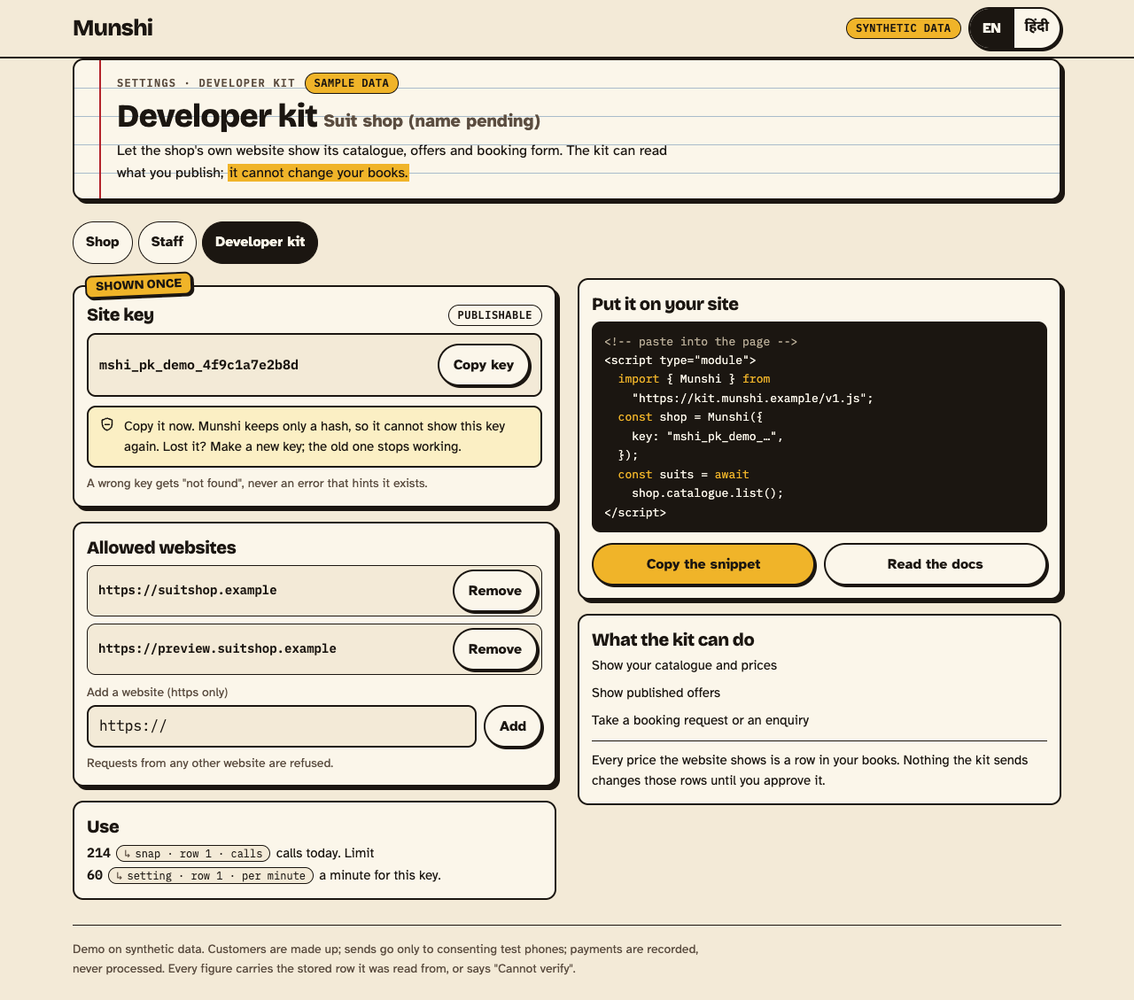
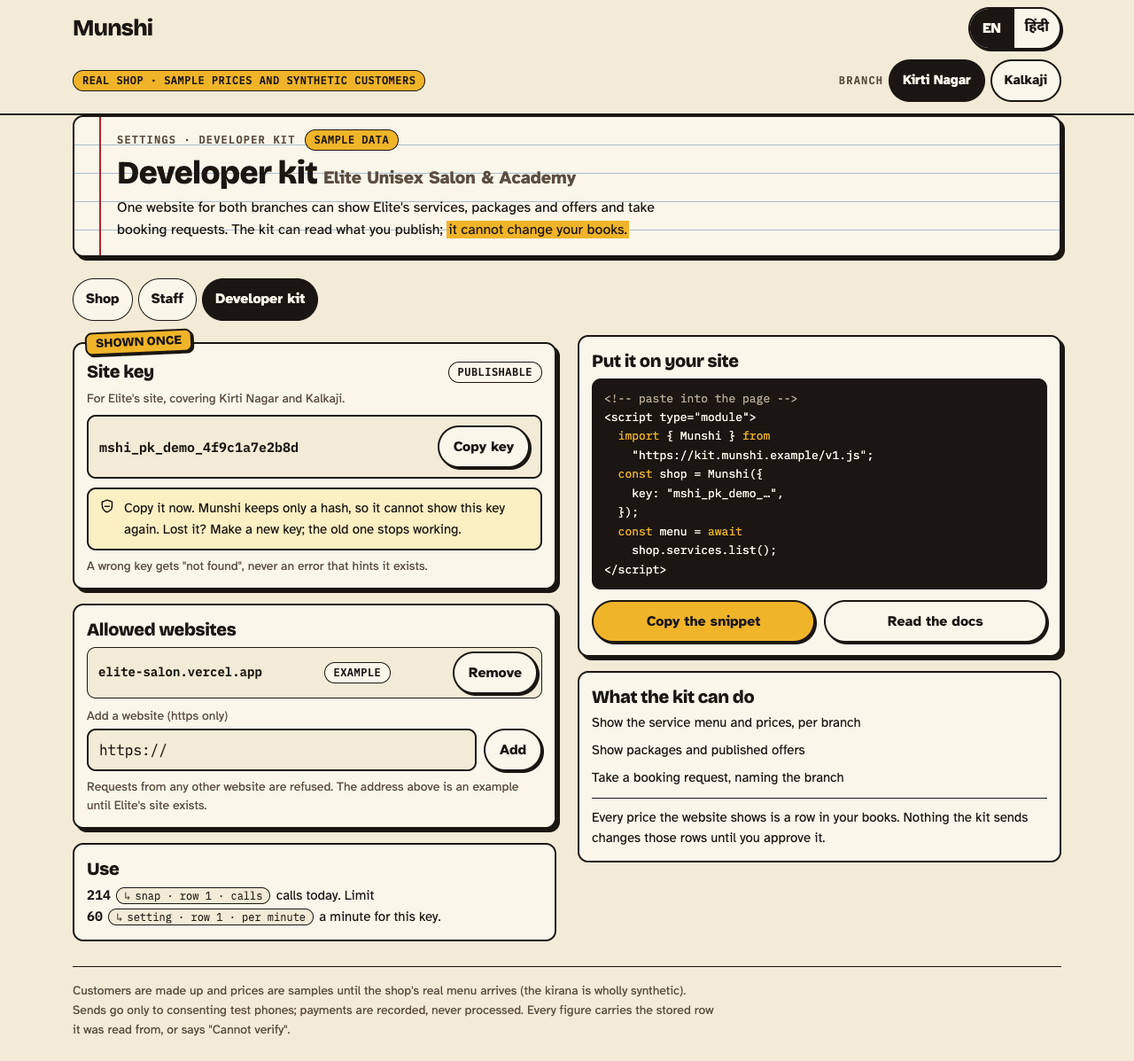
MS-16b revision 1: the app screens use the real shops — Elite Unisex Salon & Academy by name with a Kirti Nagar | Kalkaji branch switcher, bookings and packages by branch, the spreadsheet as Elite's service menu (the error shows the typed 3500.5), Elite's one site in the developer kit; real shops ca

Changed region(s): [[0.0625, 0.0, 0.9688, 0.899], [0.0625, 0.93, 0.625, 0.992]]

diff --git a/design/merchants/app/spreadsheet.html b/design/merchants/app/spreadsheet.html
@@ -12,61 +12,62 @@
 <body>
 <header class="bar"><div class="wrap">
   <span class="word">Munshi</span>
-  <div class="bar-r"><span class="synth">Synthetic data</span><div class="lang" aria-label="Language"><span class="on">EN</span><span class="hi">हिंदी</span></div></div>
-</div></header>
+  <div class="bar-r"><div class="lang" aria-label="Language"><span class="on">EN</span><span class="hi">हिंदी</span></div></div>
+</div>
+  <div class="wrap bar-sub"><span class="synth">Real shop · sample prices and synthetic customers</span><div class="branch" aria-label="Branch"><span class="kicker">Branch</span><span class="seg on">Kirti Nagar</span><span class="seg">Kalkaji</span></div></div></header>
 <div class="wrap"><main>
   <div class="shop">
-    <div class="shop-k"><span class="kicker">Catalogue · prices and stock</span><span class="tag">Real shop and catalogue · synthetic customers</span></div>
-    <h1>Catalogue grid <small>Suit shop (name pending)</small></h1>
-    <p>Edit like a spreadsheet. Your edits wait here and become <mark>one draft you review and approve</mark>; nothing is written until then.</p>
+    <div class="shop-k"><span class="kicker">Service menu · prices, minutes, branches</span></div>
+    <h1>Service menu <small>Elite Unisex Salon &amp; Academy</small></h1>
+    <p>Edit like a spreadsheet. Your edits wait here and become <mark>one draft you review and approve</mark>; nothing is written until then. Prices are samples until Elite's menu arrives.</p>
   </div>
-<div class="cols">
+<div class="cols cols-wide">
  <div class="col">
   <div class="toolbar"><button class="press press-sm" type="button">Paste rows</button><button class="press press-sm" type="button">Import file</button><button class="press press-sm" type="button">Export</button>
    <span class="note">Yellow: your edit · Tinted: pasted · Dashed red: error</span></div>
-  <section class="card grid-card only-wide" aria-label="Catalogue grid">
-   <div class="grid-head"><h2>Catalogue</h2><span class="tag">Read from the books</span></div>
+  <section class="card grid-card only-wide" aria-label="Service menu grid">
+   <div class="grid-head"><h2>Services</h2><span class="tag">Sample prices</span></div>
    <div class="tbl-wrap" style="border:0;border-radius:0"><table class="grid">
-    <thead><tr><th>Item</th><th>Fabric</th><th class="n">Price ₹</th><th class="n">Stock</th><th>Source</th></tr></thead>
+    <thead><tr><th>Service</th><th>Category</th><th class="n">Min</th><th class="n">Price ₹</th><th>Branches</th><th>Source</th></tr></thead>
     <tbody>
-     <tr><td>Cotton unstitched suit</td><td>Mulmul</td><td class="n">1,450</td><td class="n">12</td><td><span class="ref">items · row 1</span></td></tr>
-     <tr><td>Cotton semi-stitched suit</td><td>Cotton</td><td class="n">1,950</td><td class="n">9</td><td><span class="ref">items · row 2</span></td></tr>
-     <tr><td>Chanderi unstitched suit</td><td>Chanderi</td><td class="n">2,800</td><td class="n edited"><span class="was">6</span>10</td><td><span class="ref">items · row 3</span></td></tr>
-     <tr><td>Georgette stitched suit</td><td>Georgette</td><td class="n edited"><span class="was">3,600</span>3,800</td><td class="n">4</td><td><span class="ref">items · row 4</span></td></tr>
-     <tr><td>Silk dupatta</td><td>Silk</td><td class="n edited"><span class="was">900</span>950</td><td class="n">15</td><td><span class="ref">items · row 5</span></td></tr>
-     <tr><td>Phulkari dupatta</td><td>Cotton</td><td class="n err">1,150<span class="errmsg">Whole rupees only, left out</span></td><td class="n">8</td><td><span class="ref">items · row 6</span></td></tr>
-     <tr><td>Linen unstitched suit</td><td>Linen</td><td class="n">1,700</td><td class="n">7</td><td><span class="ref">items · row 7</span></td></tr>
-     <tr class="pasted"><td>Banarasi dupatta <span class="mine">Pasted</span></td><td>Silk</td><td class="n">2,400</td><td class="n">5</td><td><span class="note">new row</span></td></tr>
+     <tr><td>Haircut</td><td>Hair</td><td class="n">30</td><td class="n">600</td><td>Both</td><td><span class="ref">services · row 1</span></td></tr>
+     <tr><td>Hair spa</td><td>Hair</td><td class="n">60</td><td class="n edited"><span class="was">1,200</span>1,300</td><td>Both</td><td><span class="ref">services · row 2</span></td></tr>
+     <tr><td>Global colour</td><td>Colour</td><td class="n">120</td><td class="n err"><span class="raw">3500.5</span><span class="errmsg">Whole rupees only. You typed 3500.5; left out</span></td><td>Kirti Nagar</td><td><span class="ref">services · row 3</span></td></tr>
+     <tr><td>Facial</td><td>Skin</td><td class="n edited"><span class="was">45</span>60</td><td class="n">1,400</td><td>Both</td><td><span class="ref">services · row 4</span></td></tr>
+     <tr><td>Eyebrow threading</td><td>Grooming</td><td class="n">15</td><td class="n">80</td><td>Both</td><td><span class="ref">services · row 5</span></td></tr>
+     <tr><td>Manicure</td><td>Nails</td><td class="n">40</td><td class="n">700</td><td class="edited"><span class="was">Kalkaji</span>Both</td><td><span class="ref">services · row 6</span></td></tr>
+     <tr><td>Bridal makeup</td><td>Bridal</td><td class="n">180</td><td class="n">12,000</td><td>Both</td><td><span class="ref">services · row 7</span></td></tr>
+     <tr class="pasted"><td>Head massage <span class="mine">Pasted</span></td><td>Hair</td><td class="n">20</td><td class="n">300</td><td>Both</td><td><span class="note">new row</span></td></tr>
     </tbody></table></div>
    <div class="reviewbar"><span><b>3 edits and 1 pasted row</b> <span class="note">1 cell with an error is left out</span></span><button class="press press-gold" type="button">Review 4 changes</button></div>
   </section>
   <div class="only-narrow stack">
    <div class="icard"><label for="paste" class="t" style="display:block;margin-bottom:6px">Paste rows <span class="note">from a spreadsheet</span></label>
-    <textarea id="paste" class="paste" readonly>Banarasi dupatta	Silk	2400	5</textarea>
+    <textarea id="paste" class="paste" readonly>Head massage	Hair	20	300	Both</textarea>
     <div class="decide"><button class="press press-sm" type="button" style="flex:1">Read pasted rows</button></div></div>
-   <div class="icard edited"><div class="t"><span>Chanderi unstitched suit</span><span class="ref">items · row 3</span></div><dl><dt>Stock</dt><dd><span class="was" style="display:inline">6</span> <b class="amt">10</b> <span class="mine">Your edit</span></dd></dl></div>
-   <div class="icard edited"><div class="t"><span>Georgette stitched suit</span><span class="ref">items · row 4</span></div><dl><dt>Price</dt><dd><span class="was" style="display:inline">₹3,600</span> <b class="amt">₹3,800</b> <span class="mine">Your edit</span></dd></dl></div>
-   <div class="icard edited"><div class="t"><span>Silk dupatta</span><span class="ref">items · row 5</span></div><dl><dt>Price</dt><dd><span class="was" style="display:inline">₹900</span> <b class="amt">₹950</b> <span class="mine">Your edit</span></dd></dl></div>
-   <div class="icard err"><div class="t"><span>Phulkari dupatta</span><span class="ref">items · row 6</span></div><dl><dt>Price</dt><dd><b class="amt">₹1,150</b><span class="errmsg">Whole rupees only. Left out until fixed.</span></dd></dl></div>
-   <div class="icard pasted"><div class="t"><span>Banarasi dupatta</span><span class="mine">Pasted</span></div><dl><dt>Fabric</dt><dd>Silk</dd><dt>Price</dt><dd><b class="amt">₹2,400</b></dd><dt>Stock</dt><dd><b class="amt">5</b></dd></dl></div>
+   <div class="icard edited"><div class="t"><span>Hair spa</span><span class="ref">services · row 2</span></div><dl><dt>Price</dt><dd><span class="was" style="display:inline">₹1,200</span> <b class="amt">₹1,300</b> <span class="mine">Your edit</span></dd></dl></div>
+   <div class="icard edited"><div class="t"><span>Facial</span><span class="ref">services · row 4</span></div><dl><dt>Minutes</dt><dd><span class="was" style="display:inline">45</span> <b class="amt">60</b> <span class="mine">Your edit</span></dd></dl></div>
+   <div class="icard edited"><div class="t"><span>Manicure</span><span class="ref">services · row 6</span></div><dl><dt>Branches</dt><dd><span class="was" style="display:inline">Kalkaji</span> <b>Both</b> <span class="mine">Your edit</span></dd></dl></div>
+   <div class="icard err"><div class="t"><span>Global colour</span><span class="ref">services · row 3</span></div><dl><dt>Price</dt><dd><b class="amt raw">3500.5</b><span class="errmsg">Whole rupees only. You typed 3500.5. Left out until fixed.</span></dd></dl></div>
+   <div class="icard pasted"><div class="t"><span>Head massage</span><span class="mine">Pasted</span></div><dl><dt>Category</dt><dd>Hair</dd><dt>Minutes</dt><dd><b class="amt">20</b></dd><dt>Price</dt><dd><b class="amt">₹300</b></dd><dt>Branches</dt><dd>Both</dd></dl></div>
    <div class="reviewbar" style="border-radius:var(--radius);border:var(--stroke) solid var(--ink)"><span><b>4 changes</b><br><span class="note">1 error left out</span></span><button class="press press-gold" type="button">Review 4 changes</button></div>
   </div>
  </div>
  <div class="col">
   <section class="card pending" aria-labelledby="g1"><span class="flag">Review</span>
    <div class="top"><h2 id="g1">Review 4 changes</h2><span class="tag-ink">One draft</span></div>
-   <div class="chg"><p class="l">Chanderi unstitched suit · Stock</p><p class="d"><span class="amt">6</span> <span class="ref">items · row 3 · stock</span> <span class="arrow">→</span> <b class="amt">10</b> <span class="mine">Your edit</span></p></div>
-   <div class="chg"><p class="l">Georgette stitched suit · Price</p><p class="d"><span class="amt">₹3,600</span> <span class="ref">items · row 4 · price</span> <span class="arrow">→</span> <b class="amt">₹3,800</b> <span class="mine">Your edit</span></p></div>
-   <div class="chg"><p class="l">Silk dupatta · Price</p><p class="d"><span class="amt">₹900</span> <span class="ref">items · row 5 · price</span> <span class="arrow">→</span> <b class="amt">₹950</b> <span class="mine">Your edit</span></p></div>
-   <div class="chg"><p class="l">New item · Banarasi dupatta, Silk</p><p class="d"><b class="amt">₹2,400</b> · <b class="amt">5</b> in stock <span class="mine">Pasted by you</span></p></div>
-   <div class="unverified" style="margin-top:6px"><svg width="18" height="18" viewBox="0 0 24 24" fill="none" stroke="currentColor" stroke-width="2" stroke-linejoin="round" stroke-linecap="round" aria-hidden="true"><path d="M12 2.8 4.5 5.6v6c0 4.6 3.2 8.2 7.5 9.6 4.3-1.4 7.5-5 7.5-9.6v-6Z"/><path d="M9 12.4h6"/></svg><span><strong>Left out</strong> Phulkari dupatta price: whole rupees only. Fix the cell to include it.</span></div>
+   <div class="chg"><p class="l">Hair spa · Price</p><p class="d"><span class="amt">₹1,200</span> <span class="ref">services · row 2 · price</span> <span class="arrow">→</span> <b class="amt">₹1,300</b> <span class="mine">Your edit</span></p></div>
+   <div class="chg"><p class="l">Facial · Minutes</p><p class="d"><span class="amt">45</span> <span class="ref">services · row 4 · minutes</span> <span class="arrow">→</span> <b class="amt">60</b> <span class="mine">Your edit</span></p></div>
+   <div class="chg"><p class="l">Manicure · Branches</p><p class="d"><span>Kalkaji</span> <span class="ref">services · row 6 · branches</span> <span class="arrow">→</span> <b>Both</b> <span class="mine">Your edit</span></p></div>
+   <div class="chg"><p class="l">New service · Head massage, Hair, both branches</p><p class="d"><b class="amt">20</b> min · <b class="amt">₹300</b> <span class="mine">Pasted by you</span></p></div>
+   <div class="unverified" style="margin-top:6px"><svg width="18" height="18" viewBox="0 0 24 24" fill="none" stroke="currentColor" stroke-width="2" stroke-linejoin="round" stroke-linecap="round" aria-hidden="true"><path d="M12 2.8 4.5 5.6v6c0 4.6 3.2 8.2 7.5 9.6 4.3-1.4 7.5-5 7.5-9.6v-6Z"/><path d="M9 12.4h6"/></svg><span><strong>Left out</strong> Global colour price: you typed 3500.5 and prices are whole rupees. Fix the cell to include it.</span></div>
    <p class="note" style="margin-top:8px">Each old value is re-read when you approve. If a cell changed since, the draft stops and shows what changed.</p>
    <div class="decide"><button class="press press-red" type="button">Approve 4 changes</button><button class="press" type="button">Reject</button></div>
   </section>
  </div>
 </div>
 </main>
-<footer class="demo"><p>Demo on synthetic data. Customers are made up; sends go only to consenting test phones; payments are recorded, never processed. Every figure carries the stored row it was read from, or says "Cannot verify".</p></footer>
+<footer class="demo"><p>Customers are made up and prices are samples until the shop's real menu arrives (the kirana is wholly synthetic). Sends go only to consenting test phones; payments are recorded, never processed. Every figure carries the stored row it was read from, or says "Cannot verify".</p></footer>
 </div>
 </body>
 </html>

diff --git a/design/merchants/app/voice-note.html b/design/merchants/app/voice-note.html
@@ -12,8 +12,9 @@
 <body>
 <header class="bar"><div class="wrap">
   <span class="word">Munshi</span>
-  <div class="bar-r"><span class="synth">Synthetic data</span><div class="lang" aria-label="Language"><span class="on">EN</span><span class="hi">हिंदी</span></div></div>
-</div></header>
+  <div class="bar-r"><div class="lang" aria-label="Language"><span class="on">EN</span><span class="hi">हिंदी</span></div></div>
+</div>
+  <div class="wrap bar-sub"><span class="synth">Real shop · sample prices and synthetic customers</span><div class="branch" aria-label="Branch"><span class="kicker">Branch</span><span class="seg on">Kirti Nagar</span><span class="seg">Kalkaji</span></div></div></header>
 <div class="wrap"><main>
   <div class="shop">
     <div class="shop-k"><span class="kicker">Inbound WhatsApp · voice notes</span></div>
@@ -24,16 +25,17 @@
  <div class="col">
   <section class="card pending" aria-labelledby="v1"><span class="flag">Waiting for you</span>
    <div class="top"><h2 id="v1">Booking request</h2><span class="tag-ink">Draft</span></div>
-   <p class="kicker" style="margin-bottom:8px">Salon (name pending) · customer (synthetic) · WhatsApp test number</p>
+   <p class="kicker" style="margin-bottom:8px">Elite Unisex Salon &amp; Academy · Kirti Nagar · customer (synthetic) · WhatsApp test number</p>
    <div class="voice"><span class="play"><svg width="16" height="16" viewBox="0 0 24 24" fill="currentColor" aria-hidden="true"><path d="M8 5v14l11-7z"/></svg></span><svg class="wave" viewBox="0 0 204 28" preserveAspectRatio="none" fill="#1b1611" aria-hidden="true"><rect x="0" y="12" width="3" height="4" rx="1.5"/><rect x="6" y="5.545843542511424" width="3" height="16.908312914977152" rx="1.5"/><rect x="12" y="8.59452393885243" width="3" height="10.810952122295143" rx="1.5"/><rect x="18" y="6.908019247197472" width="3" height="14.183961505605057" rx="1.5"/><rect x="24" y="8.282376568737655" width="3" height="11.43524686252469" rx="1.5"/><rect x="30" y="5.608320880570805" width="3" height="16.78335823885839" rx="1.5"/><rect x="36" y="8.150689218235517" width="3" height="11.698621563528967" rx="1.5"/><rect x="42" y="7.600245882696317" width="3" height="12.799508234607366" rx="1.5"/><rect x="48" y="5.274610018289273" width="3" height="17.450779963421454" rx="1.5"/><rect x="54" y="9.817926847781624" width="3" height="8.364146304436751" rx="1.5"/><rect x="60" y="5.712313794662437" width="3" height="16.575372410675126" rx="1.5"/><rect x="66" y="9.180505358021907" width="3" height="9.638989283956187" rx="1.5"/><rect x="72" y="6.501139049215319" width="3" height="14.997721901569362" rx="1.5"/><rect x="78" y="10.40249872516758" width="3" height="7.195002549664839" rx="1.5"/><rect x="84" y="4.6551085484087515" width="3" height="18.689782903182497" rx="1.5"/><rect x="90" y="10.025179052878075" width="3" height="7.949641894243851" rx="1.5"/><rect x="96" y="6.163998160921016" width="3" height="15.672003678157967" rx="1.5"/><rect x="102" y="6.778994630141364" width="3" height="14.442010739717272" rx="1.5"/><rect x="108" y="7.994015776926223" width="3" height="12.011968446147554" rx="1.5"/><rect x="114" y="6.746696607385787" width="3" height="14.506606785228426" rx="1.5"/><rect x="120" y="7.0900452263398694" width="3" height="13.819909547320261" rx="1.5"/><rect x="126" y="6.9968333049156115" width="3" height="14.006333390168777" rx="1.5"/><rect x="132" y="9.379306191748583" width="3" height="9.241387616502834" rx="1.5"/><rect x="138" y="4.579198356651517" width="3" height="18.841603286696966" rx="1.5"/><rect x="144" y="11.776187084575744" width="3" height="4.447625830848513" rx="1.5"/><rect x="150" y="5.521524232842232" width="3" height="16.956951534315536" rx="1.5"/><rect x="156" y="8.812070035964805" width="3" height="10.375859928070389" rx="1.5"/><rect x="162" y="6.8276407037914675" width="3" height="14.344718592417065" rx="1.5"/><rect x="168" y="8.479210000295287" width="3" height="11.041579999409425" rx="1.5"/><rect x="174" y="5.477220529265798" width="3" height="17.045558941468403" rx="1.5"/><rect x="180" y="8.313739532861439" width="3" height="11.372520934277123" rx="1.5"/><rect x="186" y="7.427129260725893" width="3" height="13.145741478548214" rx="1.5"/><rect x="192" y="5.393050085691348" width="3" height="17.213899828617304" rx="1.5"/><rect x="198" y="9.614289524633739" width="3" height="8.771420950732523" rx="1.5"/></svg><span class="amt">0:14 <span class="ref">inbox · row 1 · seconds</span></span></div>
    <p class="note" style="margin:8px 0 6px"><span class="tag"><svg width="14" height="14" viewBox="0 0 24 24" fill="currentColor" aria-hidden="true"><path d="M12 2l2.2 6.3L21 10l-6.8 1.7L12 22l-2.2-10.3L3 10l6.8-1.7z"/></svg> Transcribed with AI</span></p>
-   <div class="quote"><p class="hi">नमस्ते, शनिवार को दोपहर के बाद हेयर स्पा और हेयरकट करवाना है।</p><p class="en">English gloss: Hello, I want a hair spa and a haircut on Saturday, after noon.</p></div>
+   <div class="quote"><p class="hi">नमस्ते, कीर्ति नगर ब्रांच में शनिवार को दोपहर के बाद हेयर स्पा और हेयरकट करवाना है।</p><p class="en">English gloss: Hello, I want a hair spa and a haircut at the Kirti Nagar branch on Saturday, after noon.</p></div>
    <hr class="sep">
    <p class="kicker" style="margin-bottom:4px">What Munshi proposes</p>
    <dl class="rows">
-    <div><dt>Services</dt><dd>Hair spa<br><span class="pair"><b class="amt">60</b> <span class="ref">service · row 7 · minutes</span></span> min · <span class="pair"><b class="amt">₹1,200</b> <span class="ref">price · row 7 · amount</span></span><br>Haircut<br><span class="pair"><b class="amt">30</b> <span class="ref">service · row 3 · minutes</span></span> min · <span class="pair"><b class="amt">₹600</b> <span class="ref">price · row 3 · amount</span></span></dd></div>
+    <div><dt>Branch</dt><dd>Kirti Nagar <span class="note">named in the voice note; Kalkaji also offers both</span></dd></div>
+    <div><dt>Services</dt><dd><span class="tag" style="margin-bottom:4px">Sample prices</span><br>Hair spa<br><span class="pair"><b class="amt">60</b> <span class="ref">service · row 7 · minutes</span></span> min · <span class="pair"><b class="amt">₹1,200</b> <span class="ref">price · row 7 · amount</span></span><br>Haircut<br><span class="pair"><b class="amt">30</b> <span class="ref">service · row 3 · minutes</span></span> min · <span class="pair"><b class="amt">₹600</b> <span class="ref">price · row 3 · amount</span></span></dd></div>
     <div><dt>Total</dt><dd><b><span class="pair"><b class="amt">₹1,800</b> <span class="ref">snap · row 1 · total</span></span></b></dd></div>
-    <div><dt>Wants</dt><dd>Saturday, afternoon window. <span class="note">No time is promised: the salon confirms on WhatsApp.</span></dd></div>
+    <div><dt>Wants</dt><dd>Saturday, afternoon window. <span class="note">No time is promised: Elite confirms on WhatsApp.</span></dd></div>
     <div><dt>Consent</dt><dd>Agreed to WhatsApp updates <span class="ref">consent · latest row</span></dd></div>
    </dl>
    <div class="decide"><button class="press press-red" type="button">Approve booking</button><button class="press" type="button">Reject</button></div>
@@ -41,7 +43,7 @@
  </div>
  <div class="col">
   <section class="card pending" aria-labelledby="v2"><span class="flag">Waiting for you</span>
-   <div class="top"><h2 id="v2">Udhaar entry</h2><span class="tag-ink">Draft</span></div>
+   <div class="top"><h2 id="v2">Udhaar entry</h2><span class="synth">Synthetic data</span></div>
    <p class="kicker" style="margin-bottom:8px">Sharma General Store (synthetic) · customer Gita (synthetic)</p>
    <div class="voice"><span class="play"><svg width="16" height="16" viewBox="0 0 24 24" fill="currentColor" aria-hidden="true"><path d="M8 5v14l11-7z"/></svg></span><svg class="wave" viewBox="0 0 204 28" preserveAspectRatio="none" fill="#1b1611" aria-hidden="true"><rect x="0" y="12" width="3" height="4" rx="1.5"/><rect x="6" y="5.545843542511424" width="3" height="16.908312914977152" rx="1.5"/><rect x="12" y="8.59452393885243" width="3" height="10.810952122295143" rx="1.5"/><rect x="18" y="6.908019247197472" width="3" height="14.183961505605057" rx="1.5"/><rect x="24" y="8.282376568737655" width="3" height="11.43524686252469" rx="1.5"/><rect x="30" y="5.608320880570805" width="3" height="16.78335823885839" rx="1.5"/><rect x="36" y="8.150689218235517" width="3" height="11.698621563528967" rx="1.5"/><rect x="42" y="7.600245882696317" width="3" height="12.799508234607366" rx="1.5"/><rect x="48" y="5.274610018289273" width="3" height="17.450779963421454" rx="1.5"/><rect x="54" y="9.817926847781624" width="3" height="8.364146304436751" rx="1.5"/><rect x="60" y="5.712313794662437" width="3" height="16.575372410675126" rx="1.5"/><rect x="66" y="9.180505358021907" width="3" height="9.638989283956187" rx="1.5"/><rect x="72" y="6.501139049215319" width="3" height="14.997721901569362" rx="1.5"/><rect x="78" y="10.40249872516758" width="3" height="7.195002549664839" rx="1.5"/><rect x="84" y="4.6551085484087515" width="3" height="18.689782903182497" rx="1.5"/><rect x="90" y="10.025179052878075" width="3" height="7.949641894243851" rx="1.5"/><rect x="96" y="6.163998160921016" width="3" height="15.672003678157967" rx="1.5"/><rect x="102" y="6.778994630141364" width="3" height="14.442010739717272" rx="1.5"/><rect x="108" y="7.994015776926223" width="3" height="12.011968446147554" rx="1.5"/><rect x="114" y="6.746696607385787" width="3" height="14.506606785228426" rx="1.5"/><rect x="120" y="7.0900452263398694" width="3" height="13.819909547320261" rx="1.5"/><rect x="126" y="6.9968333049156115" width="3" height="14.006333390168777" rx="1.5"/><rect x="132" y="9.379306191748583" width="3" height="9.241387616502834" rx="1.5"/><rect x="138" y="4.579198356651517" width="3" height="18.841603286696966" rx="1.5"/><rect x="144" y="11.776187084575744" width="3" height="4.447625830848513" rx="1.5"/><rect x="150" y="5.521524232842232" width="3" height="16.956951534315536" rx="1.5"/><rect x="156" y="8.812070035964805" width="3" height="10.375859928070389" rx="1.5"/><rect x="162" y="6.8276407037914675" width="3" height="14.344718592417065" rx="1.5"/><rect x="168" y="8.479210000295287" width="3" height="11.041579999409425" rx="1.5"/><rect x="174" y="5.477220529265798" width="3" height="17.045558941468403" rx="1.5"/><rect x="180" y="8.313739532861439" width="3" height="11.372520934277123" rx="1.5"/><rect x="186" y="7.427129260725893" width="3" height="13.145741478548214" rx="1.5"/><rect x="192" y="5.393050085691348" width="3" height="17.213899828617304" rx="1.5"/><rect x="198" y="9.614289524633739" width="3" height="8.771420950732523" rx="1.5"/></svg><span class="amt">0:09 <span class="ref">inbox · row 2 · seconds</span></span></div>
    <p class="note" style="margin:8px 0 6px"><span class="tag"><svg width="14" height="14" viewBox="0 0 24 24" fill="currentColor" aria-hidden="true"><path d="M12 2l2.2 6.3L21 10l-6.8 1.7L12 22l-2.2-10.3L3 10l6.8-1.7z"/></svg> Transcribed with AI</span></p>
@@ -59,7 +61,7 @@
  </div>
 </div>
 </main>
-<footer class="demo"><p>Demo on synthetic data. Customers are made up; sends go only to consenting test phones; payments are recorded, never processed. Every figure carries the stored row it was read from, or says "Cannot verify".</p></footer>
+<footer class="demo"><p>Customers are made up and prices are samples until the shop's real menu arrives (the kirana is wholly synthetic). Sends go only to consenting test phones; payments are recorded, never processed. Every figure carries the stored row it was read from, or says "Cannot verify".</p></footer>
 </div>
 </body>
 </html>

diff --git a/design/merchants/app/loyalty.html b/design/merchants/app/loyalty.html
@@ -12,12 +12,13 @@
 <body>
 <header class="bar"><div class="wrap">
   <span class="word">Munshi</span>
-  <div class="bar-r"><span class="synth">Synthetic data</span><div class="lang" aria-label="Language"><span class="on">EN</span><span class="hi">हिंदी</span></div></div>
-</div></header>
+  <div class="bar-r"><div class="lang" aria-label="Language"><span class="on">EN</span><span class="hi">हिंदी</span></div></div>
+</div>
+  <div class="wrap bar-sub"><span class="synth">Real shop · sample prices and synthetic customers</span><div class="branch" aria-label="Branch"><span class="kicker">Branch</span><span class="seg on">Kirti Nagar</span><span class="seg">Kalkaji</span></div></div></header>
 <div class="wrap"><main>
   <div class="shop">
-    <div class="shop-k"><span class="kicker">Customer · loyalty</span><span class="tag">Real shop and catalogue · synthetic customers</span></div>
-    <h1>Customer B <small>Suit shop (name pending)</small></h1>
+    <div class="shop-k"><span class="kicker">Customer · loyalty · Luxury You Deserve</span></div>
+    <h1>Customer B <small>Elite Unisex Salon &amp; Academy</small></h1>
     <p>Points are earned on a bill and spent on a bill, one ledger row each. <mark>Spending points is your tap at the counter.</mark></p>
   </div>
 <div class="cols cols-eq">
@@ -25,19 +26,19 @@
   <section class="card" aria-labelledby="l1">
    <div class="top"><h2 id="l1">Points</h2><span class="tag">Synthetic customer</span></div>
    <p class="big"><span class="pair"><b class="amt">340</b> <span class="ref">snap · row 1 · points</span></span></p>
-   <p class="note" style="margin:4px 0 10px"><span class="pair"><b class="amt">1</b> <span class="ref">rule · row 1 · points</span></span> point for every <span class="pair"><b class="amt">₹10</b> <span class="ref">rule · row 1 · spend</span></span> billed. <span class="pair"><b class="amt">100</b> <span class="ref">rule · row 1 · redeem points</span></span> points take off <span class="pair"><b class="amt">₹50</b> <span class="ref">rule · row 1 · redeem value</span></span>.</p>
+   <p class="note" style="margin:4px 0 10px"><span class="pair"><b class="amt">1</b> <span class="ref">rule · row 1 · points</span></span> point for every <span class="pair"><b class="amt">₹10</b> <span class="ref">rule · row 1 · spend</span></span> billed, at either branch. <span class="pair"><b class="amt">100</b> <span class="ref">rule · row 1 · redeem points</span></span> points take off <span class="pair"><b class="amt">₹50</b> <span class="ref">rule · row 1 · redeem value</span></span>.</p>
    <ul class="ledger">
-    <li class="led"><span class="what">Earned on a sale</span><span class="delta amt">+50</span><span class="when">27 Oct 2026</span><span></span><span class="after">Points after: <span class="pair"><b class="amt">340</b> <span class="ref">ledger · row 55 · balance</span></span></span></li>
+    <li class="led"><span class="what">Earned on a bill</span><span class="delta amt">+50</span><span class="when">27 Oct 2026</span><span></span><span class="after">Points after: <span class="pair"><b class="amt">340</b> <span class="ref">ledger · row 55 · balance</span></span></span></li>
     <li class="led"><span class="what">Redeemed on a bill</span><span class="delta amt neg">−100</span><span class="when">20 Oct 2026</span><span></span><span class="after">Points after: <span class="pair"><b class="amt">290</b> <span class="ref">ledger · row 54 · balance</span></span></span></li>
-    <li class="led"><span class="what">Earned on a sale</span><span class="delta amt">+240</span><span class="when">9 Oct 2026</span><span></span><span class="after">Points after: <span class="pair"><b class="amt">390</b> <span class="ref">ledger · row 53 · balance</span></span></span></li>
-    <li class="led"><span class="what">Earned on a sale</span><span class="delta amt">+150</span><span class="when">21 Sep 2026</span><span></span><span class="after">Points after: <span class="pair"><b class="amt">150</b> <span class="ref">ledger · row 52 · balance</span></span></span></li>
+    <li class="led"><span class="what">Earned on a bill</span><span class="delta amt">+240</span><span class="when">9 Oct 2026</span><span></span><span class="after">Points after: <span class="pair"><b class="amt">390</b> <span class="ref">ledger · row 53 · balance</span></span></span></li>
+    <li class="led"><span class="what">Earned on a bill</span><span class="delta amt">+150</span><span class="when">21 Sep 2026</span><span></span><span class="after">Points after: <span class="pair"><b class="amt">150</b> <span class="ref">ledger · row 52 · balance</span></span></span></li>
    </ul>
   </section>
  </div>
  <div class="col">
-  <section class="card pending" aria-labelledby="l2"><span class="flag">At the counter</span>
+  <section class="card pending" aria-labelledby="l2"><span class="flag">Kirti Nagar counter</span>
    <div class="top"><h2 id="l2">Redeem points</h2><span class="tag-ink">Your tap</span></div>
-   <div class="counter-line"><span>Bill</span><span><span class="pair"><b class="amt">₹2,000</b> <span class="ref">sale · row 31 · total</span></span></span></div>
+   <div class="counter-line"><span>Bill (sample prices)</span><span><span class="pair"><b class="amt">₹2,000</b> <span class="ref">sale · row 31 · total</span></span></span></div>
    <div class="counter-line"><span>Points available</span><span><span class="pair"><b class="amt">340</b> <span class="ref">snap · row 1 · points</span></span></span></div>
    <div class="counter-line"><span>Redeem</span><span class="stepper"><span class="btn" aria-label="Fewer">−</span><span class="val">200</span><span class="btn" aria-label="More">+</span></span></div>
    <p class="note" style="text-align:right;margin-top:-2px"><span class="mine">Your entry</span></p>
@@ -50,7 +51,7 @@
  </div>
 </div>
 </main>
-<footer class="demo"><p>Demo on synthetic data. Customers are made up; sends go only to consenting test phones; payments are recorded, never processed. Every figure carries the stored row it was read from, or says "Cannot verify".</p></footer>
+<footer class="demo"><p>Customers are made up and prices are samples until the shop's real menu arrives (the kirana is wholly synthetic). Sends go only to consenting test phones; payments are recorded, never processed. Every figure carries the stored row it was read from, or says "Cannot verify".</p></footer>
 </div>
 </body>
 </html>

diff --git a/design/merchants/app/developer-kit.html b/design/merchants/app/developer-kit.html
@@ -12,19 +12,21 @@
 <body>
 <header class="bar"><div class="wrap">
   <span class="word">Munshi</span>
-  <div class="bar-r"><span class="synth">Synthetic data</span><div class="lang" aria-label="Language"><span class="on">EN</span><span class="hi">हिंदी</span></div></div>
-</div></header>
+  <div class="bar-r"><div class="lang" aria-label="Language"><span class="on">EN</span><span class="hi">हिंदी</span></div></div>
+</div>
+  <div class="wrap bar-sub"><span class="synth">Real shop · sample prices and synthetic customers</span><div class="branch" aria-label="Branch"><span class="kicker">Branch</span><span class="seg on">Kirti Nagar</span><span class="seg">Kalkaji</span></div></div></header>
 <div class="wrap"><main>
   <div class="shop">
     <div class="shop-k"><span class="kicker">Settings · Developer kit</span><span class="synth">Sample data</span></div>
-    <h1>Developer kit <small>Suit shop (name pending)</small></h1>
-    <p>Let the shop's own website show its catalogue, offers and booking form. The kit can read what you publish; <mark>it cannot change your books.</mark></p>
+    <h1>Developer kit <small>Elite Unisex Salon &amp; Academy</small></h1>
+    <p>One website for both branches can show Elite's services, packages and offers and take booking requests. The kit can read what you publish; <mark>it cannot change your books.</mark></p>
   </div>
 <div class="tabs" aria-label="Settings"><a href="#">Shop</a><a href="#">Staff</a><a href="#" class="on" aria-current="page">Developer kit</a></div>
 <div class="cols cols-eq">
  <div class="col">
   <section class="card pending" aria-labelledby="d1"><span class="flag">Shown once</span>
    <div class="top"><h2 id="d1">Site key</h2><span class="tag">Publishable</span></div>
+   <p class="note" style="margin-bottom:8px">For Elite's site, covering Kirti Nagar and Kalkaji.</p>
    <div class="keybox"><code>mshi_pk_demo_4f9c1a7e2b8d</code><button class="press press-sm" type="button">Copy key</button></div>
    <div class="warn" style="margin-top:10px"><svg width="18" height="18" viewBox="0 0 24 24" fill="none" stroke="currentColor" stroke-width="2" stroke-linejoin="round" stroke-linecap="round" aria-hidden="true"><path d="M12 2.8 4.5 5.6v6c0 4.6 3.2 8.2 7.5 9.6 4.3-1.4 7.5-5 7.5-9.6v-6Z"/><path d="M9 12.4h6"/></svg><span>Copy it now. Munshi keeps only a hash, so it cannot show this key again. Lost it? Make a new key; the old one stops working.</span></div>
    <p class="note" style="margin-top:8px">A wrong key gets "not found", never an error that hints it exists.</p>
@@ -32,12 +34,11 @@
   <section class="card" aria-labelledby="d2">
    <h2 id="d2" style="margin-bottom:8px">Allowed websites</h2>
    <div class="stack">
-    <div class="origin"><code>https://suitshop.example</code><button class="press press-sm" type="button">Remove</button></div>
-    <div class="origin"><code>https://preview.suitshop.example</code><button class="press press-sm" type="button">Remove</button></div>
+    <div class="origin"><code>elite-salon.vercel.app</code><span class="tag">Example</span><button class="press press-sm" type="button">Remove</button></div>
    </div>
    <label for="add" class="note" style="display:block;margin:10px 0 4px">Add a website (https only)</label>
    <div style="display:flex;gap:8px"><input id="add" class="field" value="https://" readonly /><button class="press press-sm" type="button">Add</button></div>
-   <p class="note" style="margin-top:8px">Requests from any other website are refused.</p>
+   <p class="note" style="margin-top:8px">Requests from any other website are refused. The address above is an example until Elite's site exists.</p>
   </section>
   <section class="card card-flat" aria-labelledby="d4">
    <h2 id="d4" style="margin-bottom:6px">Use</h2>
@@ -54,21 +55,21 @@
   <span class="k">const</span> shop = Munshi({
     key: "mshi_pk_demo_…",
   });
-  <span class="k">const</span> suits = <span class="k">await</span>
-    shop.catalogue.list();
+  <span class="k">const</span> menu = <span class="k">await</span>
+    shop.services.list();
 &lt;/script&gt;</pre>
    <div class="decide"><button class="press press-gold" type="button">Copy the snippet</button><a class="press" href="#">Read the docs</a></div>
   </section>
   <section class="card card-flat" aria-labelledby="d5">
    <h2 id="d5" style="margin-bottom:6px">What the kit can do</h2>
-   <ul class="stack sub"><li>Show your catalogue and prices</li><li>Show published offers</li><li>Take a booking request or an enquiry</li></ul>
+   <ul class="stack sub"><li>Show the service menu and prices, per branch</li><li>Show packages and published offers</li><li>Take a booking request, naming the branch</li></ul>
    <hr class="sep">
    <p class="sub">Every price the website shows is a row in your books. Nothing the kit sends changes those rows until you approve it.</p>
   </section>
  </div>
 </div>
 </main>
-<footer class="demo"><p>Demo on synthetic data. Customers are made up; sends go only to consenting test phones; payments are recorded, never processed. Every figure carries the stored row it was read from, or says "Cannot verify".</p></footer>
+<footer class="demo"><p>Customers are made up and prices are samples until the shop's real menu arrives (the kirana is wholly synthetic). Sends go only to consenting test phones; payments are recorded, never processed. Every figure carries the stored row it was read from, or says "Cannot verify".</p></footer>
 </div>
 </body>
 </html>

diff --git a/design/merchants/app/package-balance.html b/design/merchants/app/package-balance.html
@@ -12,12 +12,13 @@
 <body>
 <header class="bar"><div class="wrap">
   <span class="word">Munshi</span>
-  <div class="bar-r"><span class="synth">Synthetic data</span><div class="lang" aria-label="Language"><span class="on">EN</span><span class="hi">हिंदी</span></div></div>
-</div></header>
+  <div class="bar-r"><div class="lang" aria-label="Language"><span class="on">EN</span><span class="hi">हिंदी</span></div></div>
+</div>
+  <div class="wrap bar-sub"><span class="synth">Real shop · sample prices and synthetic customers</span><div class="branch" aria-label="Branch"><span class="kicker">Branch</span><span class="seg on">Kirti Nagar</span><span class="seg">Kalkaji</span></div></div></header>
 <div class="wrap"><main>
   <div class="shop">
-    <div class="shop-k"><span class="kicker">Customer · packages</span><span class="tag">Real shop and catalogue · synthetic customers</span></div>
-    <h1>Customer A <small>Salon (name pending)</small></h1>
+    <div class="shop-k"><span class="kicker">Customer · packages · Luxury You Deserve</span></div>
+    <h1>Customer A <small>Elite Unisex Salon &amp; Academy</small></h1>
     <p>What this customer paid for and what remains. Every line below is a stored ledger row; <mark>the balance never goes below zero.</mark></p>
   </div>
 <div class="cols cols-eq">
@@ -27,6 +28,7 @@
    <p class="big"><span class="pair"><b class="amt">2</b> <span class="ref">snap · row 1 · remaining</span></span> <span style="font-size:1.25rem;font-family:var(--f-body);font-weight:700">of <span class="pair"><b class="amt">5</b> <span class="ref">plan · row 2 · sessions</span></span> sessions left</span></p>
    <div class="punch" aria-label="Session marks"><svg viewBox="0 0 44 44" aria-hidden="true"><circle cx="22" cy="22" r="19" fill="#b4232a" stroke="#1b1611" stroke-width="2.5"/><path d="M13 23l6 6 13-14" stroke="#fff8ef" stroke-width="3.5" fill="none" stroke-linecap="round" stroke-linejoin="round"/></svg><svg viewBox="0 0 44 44" aria-hidden="true"><circle cx="22" cy="22" r="19" fill="#b4232a" stroke="#1b1611" stroke-width="2.5"/><path d="M13 23l6 6 13-14" stroke="#fff8ef" stroke-width="3.5" fill="none" stroke-linecap="round" stroke-linejoin="round"/></svg><svg viewBox="0 0 44 44" aria-hidden="true"><circle cx="22" cy="22" r="19" fill="#b4232a" stroke="#1b1611" stroke-width="2.5"/><path d="M13 23l6 6 13-14" stroke="#fff8ef" stroke-width="3.5" fill="none" stroke-linecap="round" stroke-linejoin="round"/></svg><svg viewBox="0 0 44 44" aria-hidden="true"><circle cx="22" cy="22" r="19" fill="#fbf6ea" stroke="#1b1611" stroke-width="2.5" stroke-dasharray="5 4"/></svg><svg viewBox="0 0 44 44" aria-hidden="true"><circle cx="22" cy="22" r="19" fill="#fbf6ea" stroke="#1b1611" stroke-width="2.5" stroke-dasharray="5 4"/></svg></div>
    <dl class="rows" style="margin-top:6px">
+    <div><dt>Use at</dt><dd>Both branches: Kirti Nagar and Kalkaji <span class="tag">Sample prices</span></dd></div>
     <div><dt>Paid</dt><dd><span class="pair"><b class="amt">₹4,500</b> <span class="ref">ledger · row 41 · amount</span></span> <span class="note">recorded, not processed</span></dd></div>
     <div><dt>Still owed</dt><dd><span class="pair"><b class="amt">₹1,800</b> <span class="ref">snap · row 1 · liability</span></span> of services <span class="note">the salon's liability</span></dd></div>
     <div><dt>Valid to</dt><dd>2 Feb 2027 <span class="ref">plan · row 2 · expiry</span></dd></div>
@@ -59,7 +61,7 @@
  </div>
 </div>
 </main>
-<footer class="demo"><p>Demo on synthetic data. Customers are made up; sends go only to consenting test phones; payments are recorded, never processed. Every figure carries the stored row it was read from, or says "Cannot verify".</p></footer>
+<footer class="demo"><p>Customers are made up and prices are samples until the shop's real menu arrives (the kirana is wholly synthetic). Sends go only to consenting test phones; payments are recorded, never processed. Every figure carries the stored row it was read from, or says "Cannot verify".</p></footer>
 </div>
 </body>
 </html>

diff --git a/design/merchants/app/campaign.html b/design/merchants/app/campaign.html
@@ -12,11 +12,12 @@
 <body>
 <header class="bar"><div class="wrap">
   <span class="word">Munshi</span>
-  <div class="bar-r"><span class="synth">Synthetic data</span><div class="lang" aria-label="Language"><span class="on">EN</span><span class="hi">हिंदी</span></div></div>
-</div></header>
+  <div class="bar-r"><div class="lang" aria-label="Language"><span class="on">EN</span><span class="hi">हिंदी</span></div></div>
+</div>
+  <div class="wrap bar-sub"><span class="synth">Real shop · sample prices and synthetic customers</span></div></header>
 <div class="wrap"><main>
   <div class="shop">
-    <div class="shop-k"><span class="kicker">Campaign · draft · Diwali</span><span class="tag">Real shop and catalogue · synthetic customers</span></div>
+    <div class="shop-k"><span class="kicker">Campaign · draft · Diwali</span></div>
     <h1>Diwali campaign <small>Suit shop (name pending)</small></h1>
     <p>Munshi drafted this from your books and your offer. <mark>Nothing is sent until you approve it.</mark></p>
   </div>
@@ -61,7 +62,7 @@
  </div>
 </div>
 </main>
-<footer class="demo"><p>Demo on synthetic data. Customers are made up; sends go only to consenting test phones; payments are recorded, never processed. Every figure carries the stored row it was read from, or says "Cannot verify".</p></footer>
+<footer class="demo"><p>Customers are made up and prices are samples until the shop's real menu arrives (the kirana is wholly synthetic). Sends go only to consenting test phones; payments are recorded, never processed. Every figure carries the stored row it was read from, or says "Cannot verify".</p></footer>
 </div>
 </body>
 </html>

diff --git a/design/merchants/app/app.css b/design/merchants/app/app.css
@@ -227,3 +227,12 @@ table.grid tr.pasted td:first-child { box-shadow: inset 4px 0 0 var(--accent); }
 @media (min-width: 1024px) { .only-narrow { display: none !important; } }
 @media (max-width: 1023px) { .only-wide { display: none !important; } }
 .shop h1 small { display: inline-block; }
+
+.bar-sub { display: flex; align-items: center; justify-content: space-between; flex-wrap: wrap; gap: 8px 12px; padding-top: 0; padding-bottom: 10px; min-height: 0; }
+.bar-sub .synth { white-space: normal; text-align: left; }
+.branch { display: flex; align-items: center; gap: 6px; }
+.branch .seg { display: grid; place-items: center; min-height: 48px; padding: 0 14px; border: var(--stroke) solid var(--ink); border-radius: var(--radius-pill); background: var(--paper-2); font-weight: 700; font-size: 0.9375rem; }
+.branch .seg.on { background: var(--ink); color: var(--paper-2); }
+@media (min-width: 1024px) { .cols-wide { grid-template-columns: minmax(0, 1.5fr) minmax(0, 1fr); } }
+.raw { font-family: var(--f-mono); font-weight: 600; }
+.origin .tag { flex: none; }
